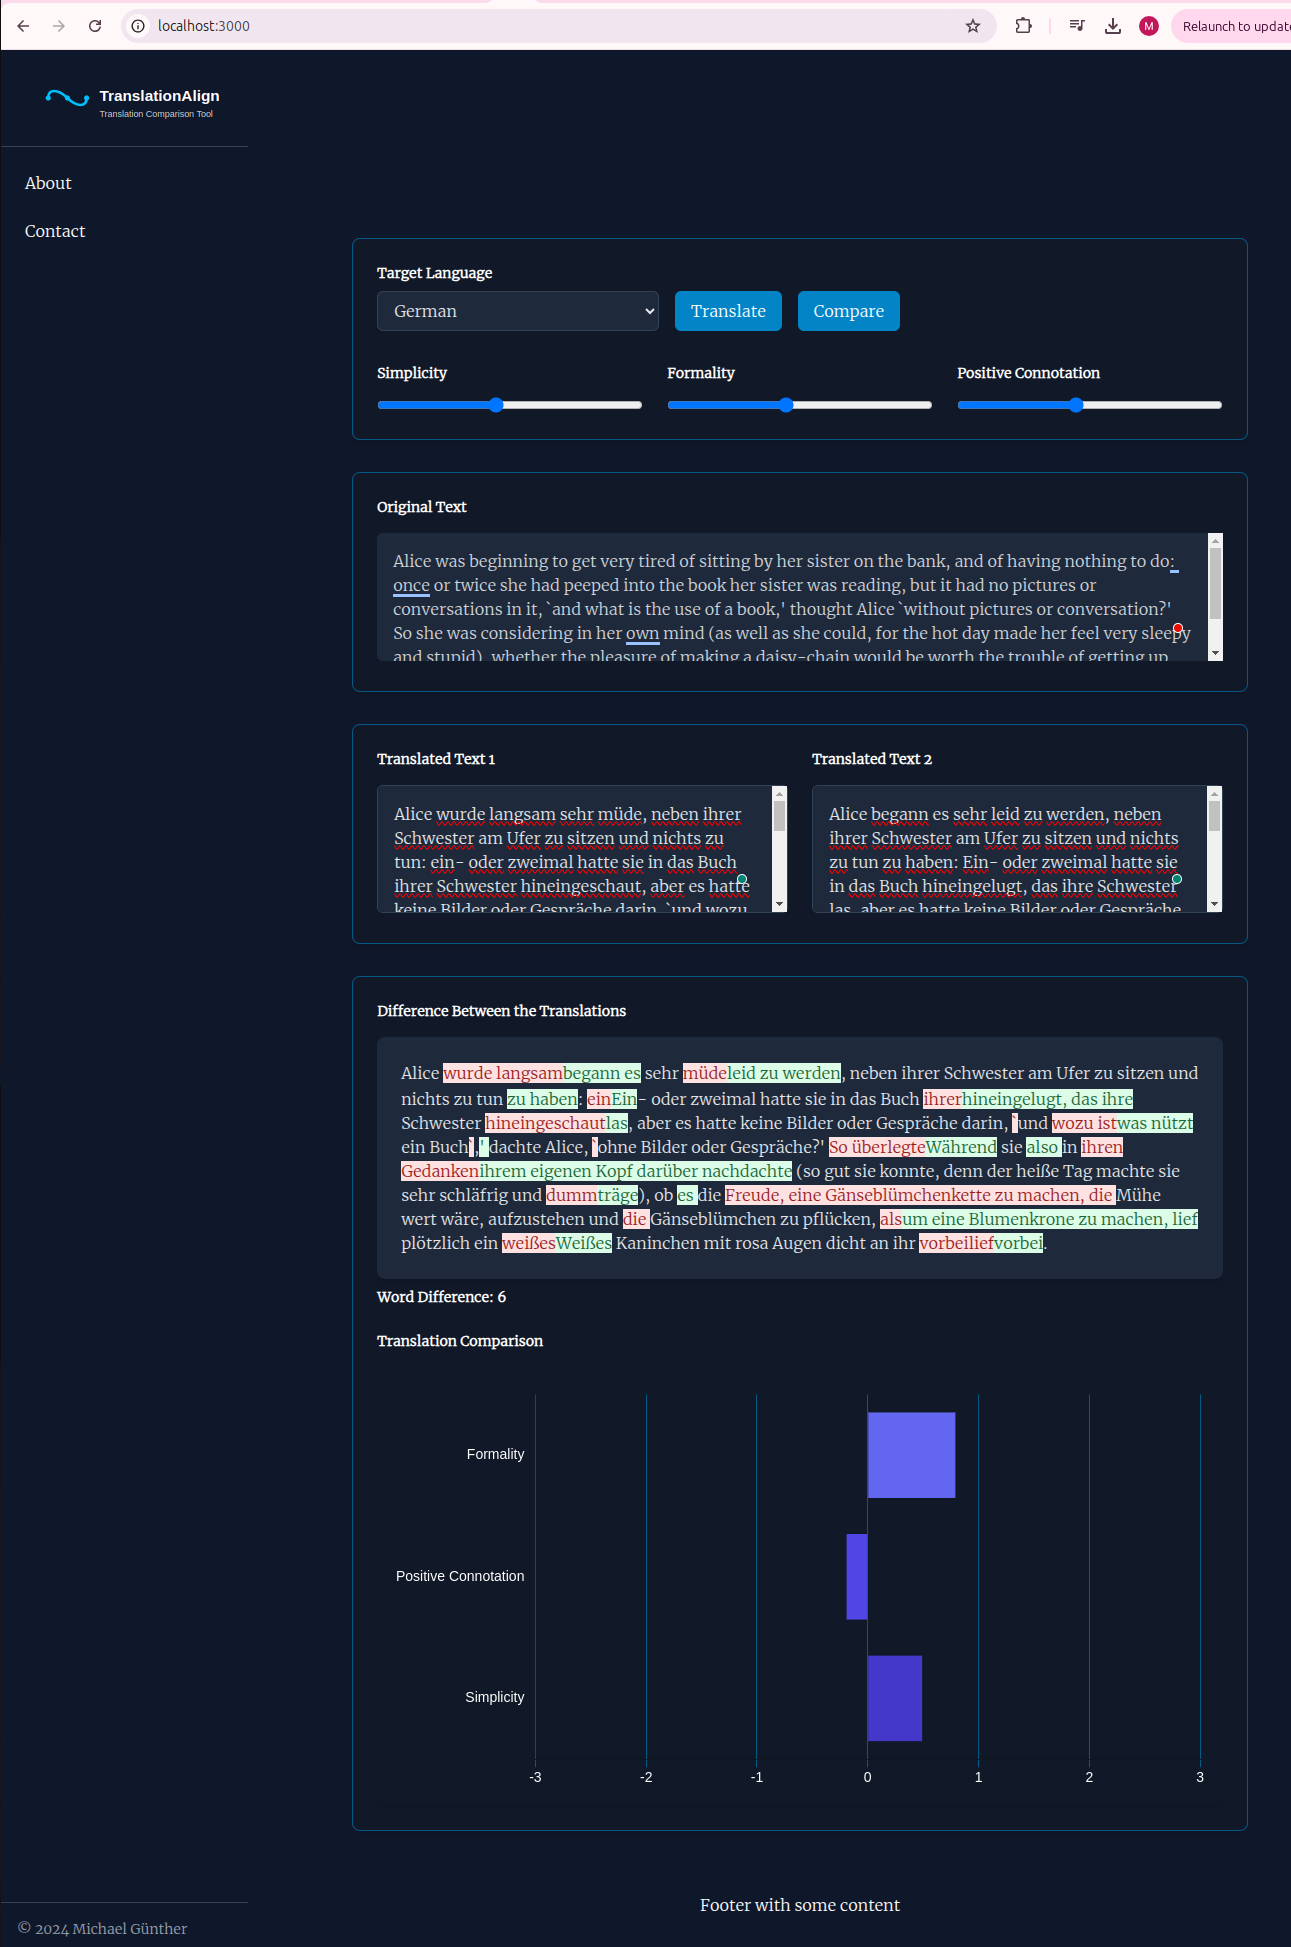
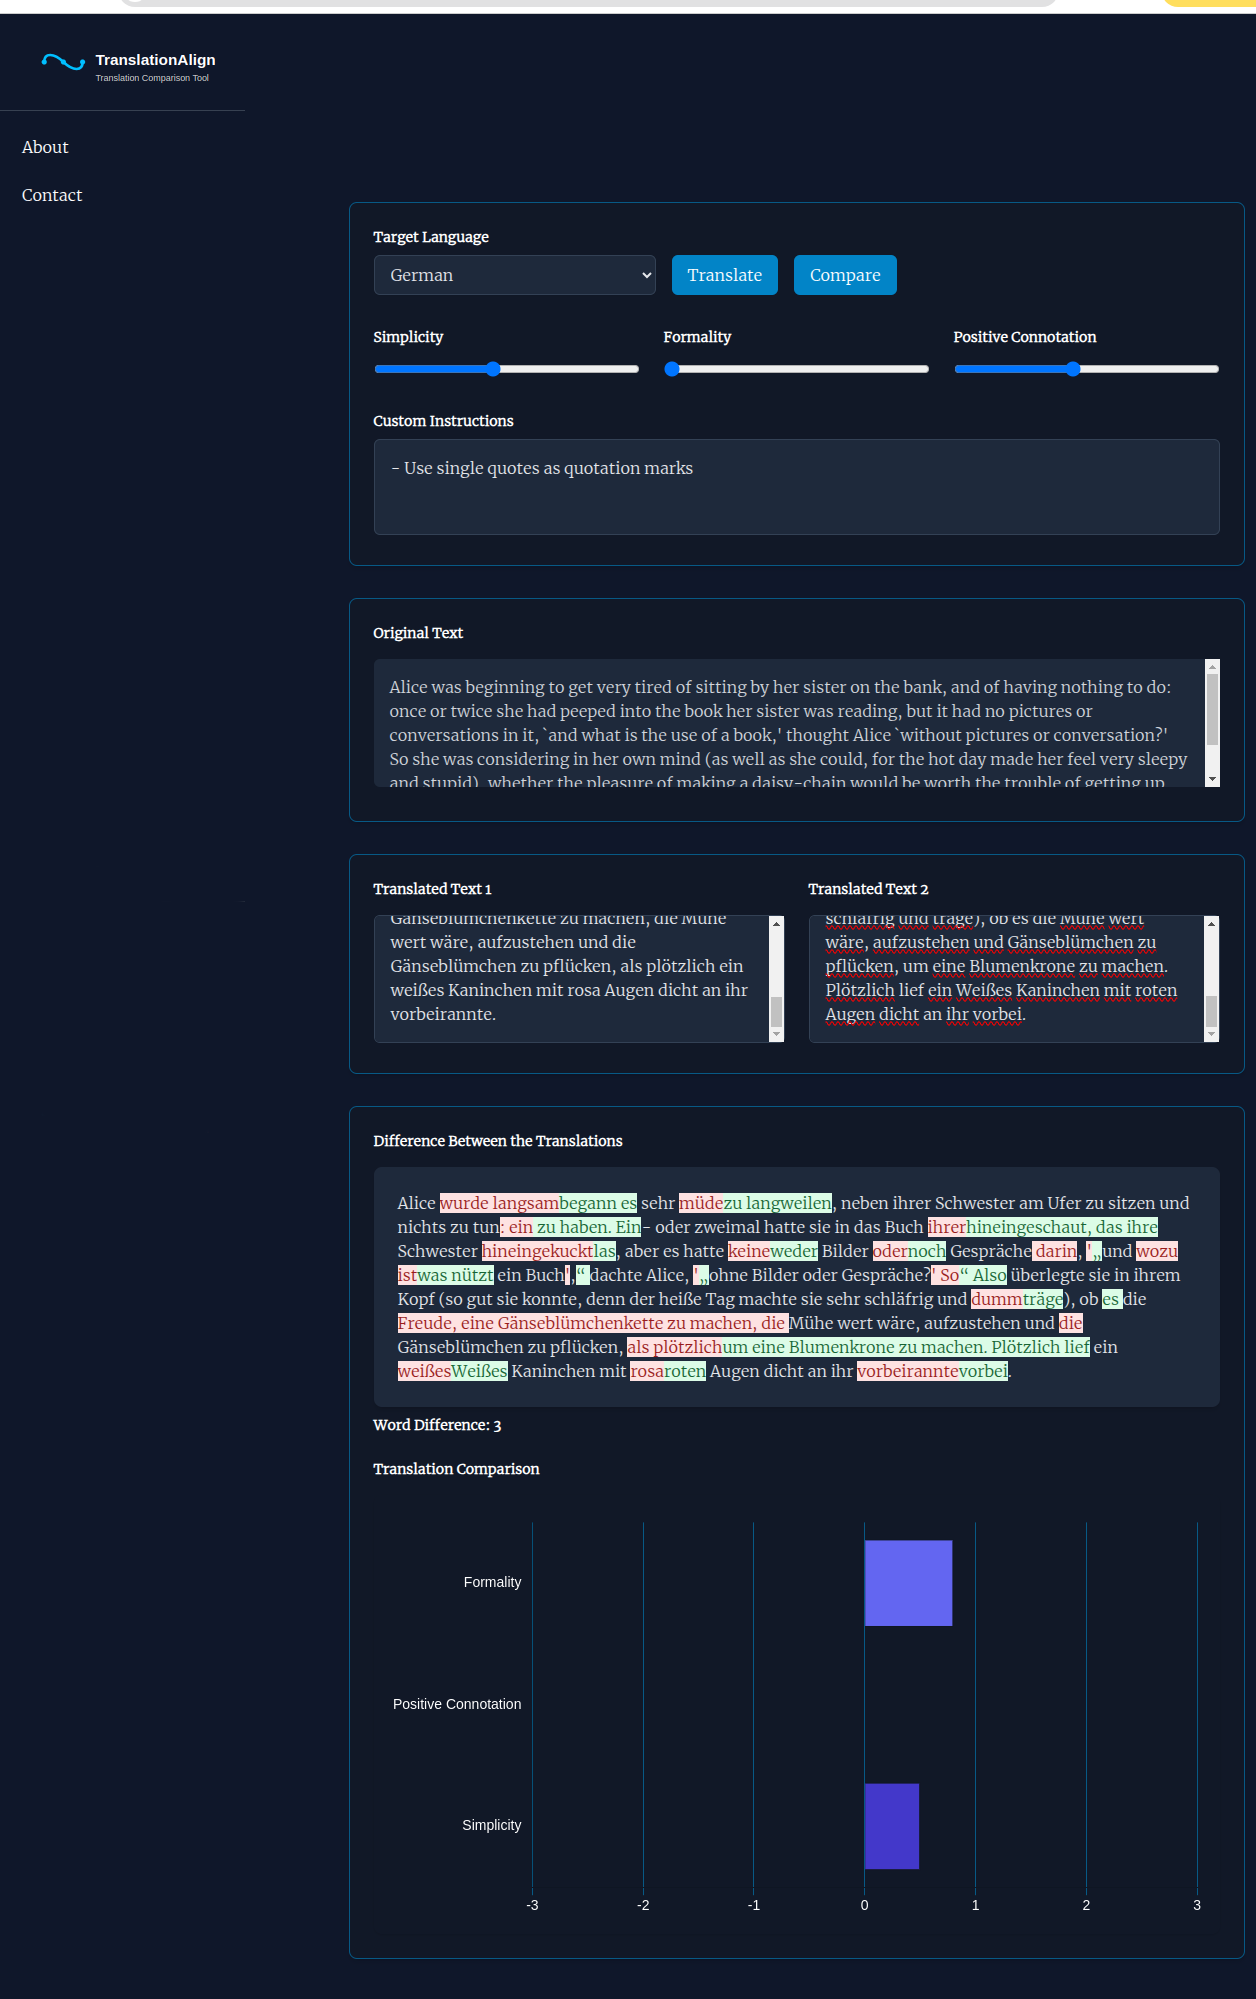
support custom instruction

diff --git a/app/page.tsx b/app/page.tsx
@@ -29,6 +29,8 @@ export default function Home() {
   const [positiveConnotationSlider, setPositiveConnotationSlider] = useState<number>(5);
   const [simplicitySlider, setSimplicitySlider] = useState<number>(5);
 
+  const [customInstructions, setCustomInstructions] = useState<string>('');
+
   const handleTranslate = async () => {
     try {
       const response = await fetch(
@@ -39,6 +41,7 @@ export default function Home() {
             formalitySlider,
             positiveConnotationSlider,
             simplicitySlider,
+            customInstructions,
           ),
         )}`,
       );
@@ -207,6 +210,17 @@ export default function Home() {
                 />
               </div>
             ))}
+          </div>
+
+          {/* Custom Instructions */}
+          <div className="mt-4">
+            <label className="block text-sm font-semibold mb-2">Custom Instructions</label>
+            <textarea
+              className="w-full h-24 p-4 border rounded-md resize-none text-gray-200 border-slate-700 bg-slate-800"
+              placeholder="Here you can enter custom instructions for the the translation process..."
+              value={customInstructions}
+              onChange={(e) => setCustomInstructions(e.target.value)}
+            />
           </div>
         </div>
 

diff --git a/app/templateLoaders.ts b/app/templateLoaders.ts
@@ -28,10 +28,13 @@ export const translatePromptTemplate = async (
   simplicity: number,
   formality: number,
   positiveConnotation: number,
+  additionalInstructions: string = '',
 ): Promise<string> => {
   const template = await loadTemplate(translationTemplatePath);
+  additionalInstructions = additionalInstructions.replace('{inputText}', '');
   return template
     .replace('{language}', language)
+    .replace('{customInstructions}', additionalInstructions)
     .replace('{inputText}', inputText)
     .replace('{simplicity}', simplicity.toString())
     .replace('{formality}', formality.toString())

diff --git a/app/layout.tsx b/app/layout.tsx
@@ -16,7 +16,8 @@ const geistMono = Geist_Mono({
 
 export const metadata: Metadata = {
   title: 'TranslationAlign',
-  description: 'Translate texts into different languages using LLMs and compare them with respect to different criteria',
+  description:
+    'Translate texts into different languages using LLMs and compare them with respect to different criteria',
 };
 
 export default function RootLayout({

diff --git a/README.md b/README.md
@@ -21,5 +21,5 @@ Then you can run the Web application by running `npm install`, `npm run build`, 
 ## Future plans
 
 - Support more criteria
-- Support other instructions (e.g., instruct the LLM to use specific terminology, data formats, ect.)
+- Support more modification without custom instructions (e.g., instruct the LLM to use specific terminology, date formats, ect.)
 - Alternatives to Gemini for the translation
